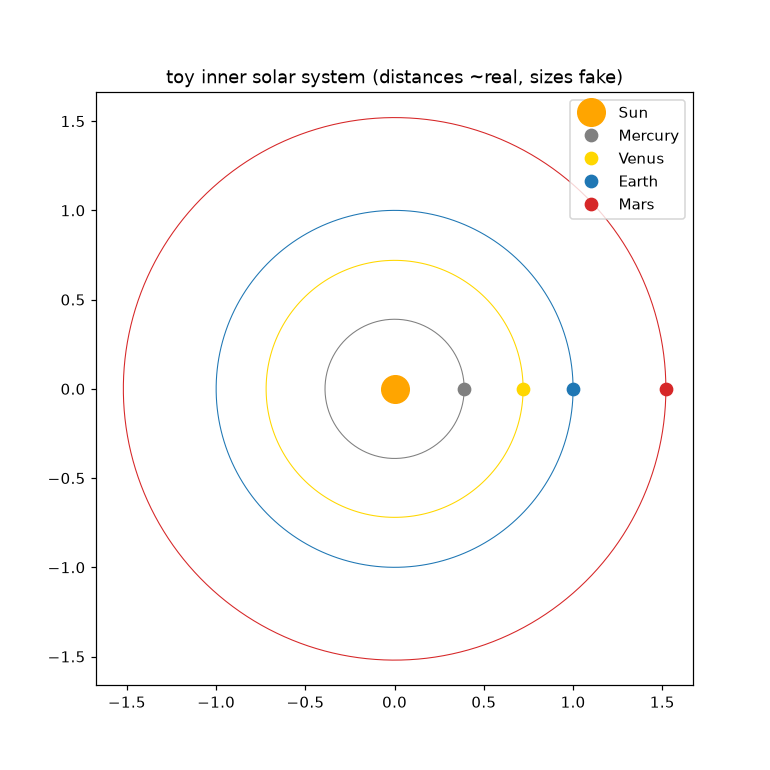
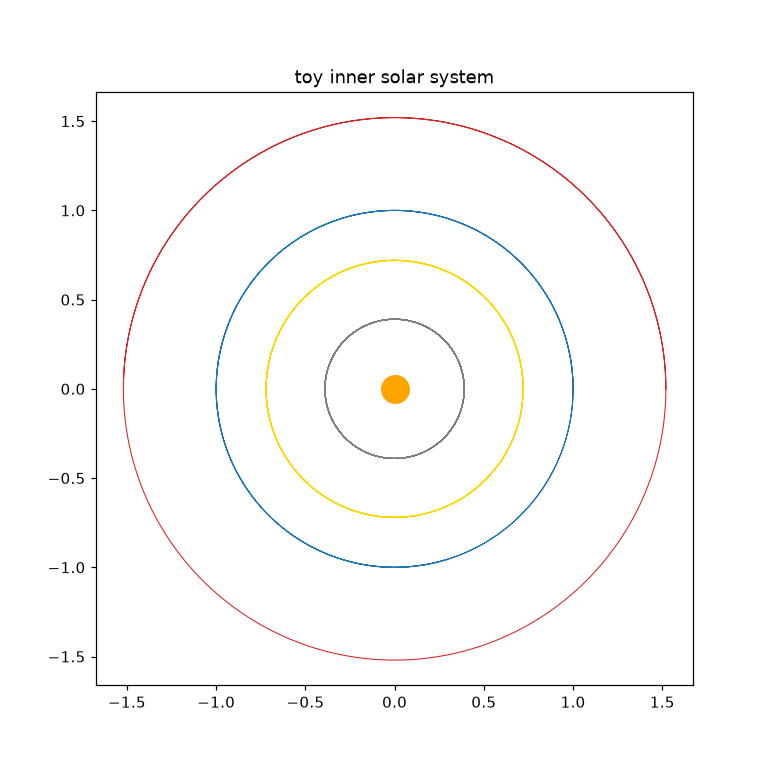
solar system actually goes around now

diff --git a/mechanics/solar_system.py b/mechanics/solar_system.py
@@ -1,26 +1,68 @@
 # toy solar system, inner planets. units where earths orbit is r=1 (1 AU) and one
-# year is the time unit, which makes G*M_sun = 4*pi^2. the planet distances are roughly
-# real (in AU) but the SIZES of the dots are totally fake, you couldnt see them otherwise.
-# circular orbit speed is v = sqrt(GM/r).
+# year is the time unit, which makes G*M_sun = 4*pi^2. distances are roughly real (AU),
+# dot sizes are fake. circular orbit speed v = sqrt(GM/r).
+#
+# the planets actually go around: inner ones whip, mars crawls (keplers law for free)
 
 import numpy as np
 import matplotlib.pyplot as plt
+from matplotlib.animation import FuncAnimation, PillowWriter
 
 GM = 4*np.pi**2
-planets = {                # name: (orbit radius AU, color)
-    "Mercury": (0.39, "gray"),
-    "Venus":   (0.72, "gold"),
-    "Earth":   (1.00, "tab:blue"),
-    "Mars":    (1.52, "tab:red"),
-}
+planets = [   # name, radius AU, color, size
+    ("Mercury", 0.39, "gray", 5),
+    ("Venus",   0.72, "gold", 8),
+    ("Earth",   1.00, "tab:blue", 9),
+    ("Mars",    1.52, "tab:red", 7),
+]
 
+# each planet: pos and vel for a circular orbit, integrate with leapfrog
+state = []
+for name, r, c, sz in planets:
+    pos = np.array([r, 0.0])
+    vel = np.array([0.0, np.sqrt(GM/r)])    #circular speed, perpendicular
+    state.append([pos, vel, c, sz, name])
+
+def accel(pos):
+    d = -pos
+    return GM*d/np.linalg.norm(d)**3        #pull toward the sun at origin
+
+dt = 0.002; n = 1400
+hist = [np.zeros((n,2)) for _ in state]
+accs = [accel(s[0]) for s in state]
+for i in range(n):
+    for j, s in enumerate(state):
+        hist[j][i] = s[0]
+        s[0] = s[0] + s[1]*dt + 0.5*accs[j]*dt**2
+        a_new = accel(s[0])
+        s[1] = s[1] + 0.5*(accs[j] + a_new)*dt
+        accs[j] = a_new
+
+# static (orbit rings)
 plt.figure(figsize=(7,7))
-plt.plot(0, 0, "o", color="orange", ms=18, label="Sun")
-th = np.linspace(0, 2*np.pi, 200)
-for name, (r, c) in planets.items():
-    plt.plot(r*np.cos(th), r*np.sin(th), color=c, lw=0.7)   #orbit ring
-    plt.plot(r, 0, "o", color=c, ms=8, label=name)          #planet at start
-plt.axis("equal"); plt.legend(loc="upper right")
-plt.title("toy inner solar system (distances ~real, sizes fake)")
+plt.plot(0,0,"o",color="orange",ms=18)
+for j, s in enumerate(state):
+    plt.plot(hist[j][:,0], hist[j][:,1], color=s[2], lw=0.7)
+plt.axis("equal"); plt.title("toy inner solar system")
 plt.savefig("media/solar_system.png", dpi=110)
+
+# animated
+fig, ax = plt.subplots(figsize=(7,7))
+ax.set_xlim(-1.8,1.8); ax.set_ylim(-1.8,1.8); ax.set_aspect("equal")
+ax.set_facecolor("#05060f"); ax.set_title("inner planets going around")
+ax.plot(0,0,"o",color="orange",ms=16)
+dots, rings = [], []
+for j, s in enumerate(state):
+    ax.plot(hist[j][:,0], hist[j][:,1], color=s[2], lw=0.5, alpha=0.5)
+    dots.append(ax.plot([], [], "o", color=s[2], ms=s[3])[0])
+
+step = 6
+def update(frame):
+    k = frame*step
+    for j in range(len(state)):
+        dots[j].set_data([hist[j][k,0]], [hist[j][k,1]])
+    return dots
+
+anim = FuncAnimation(fig, update, frames=n//step, blit=True, interval=30)
+anim.save("media/solar_system.gif", writer=PillowWriter(fps=30))
 plt.show()